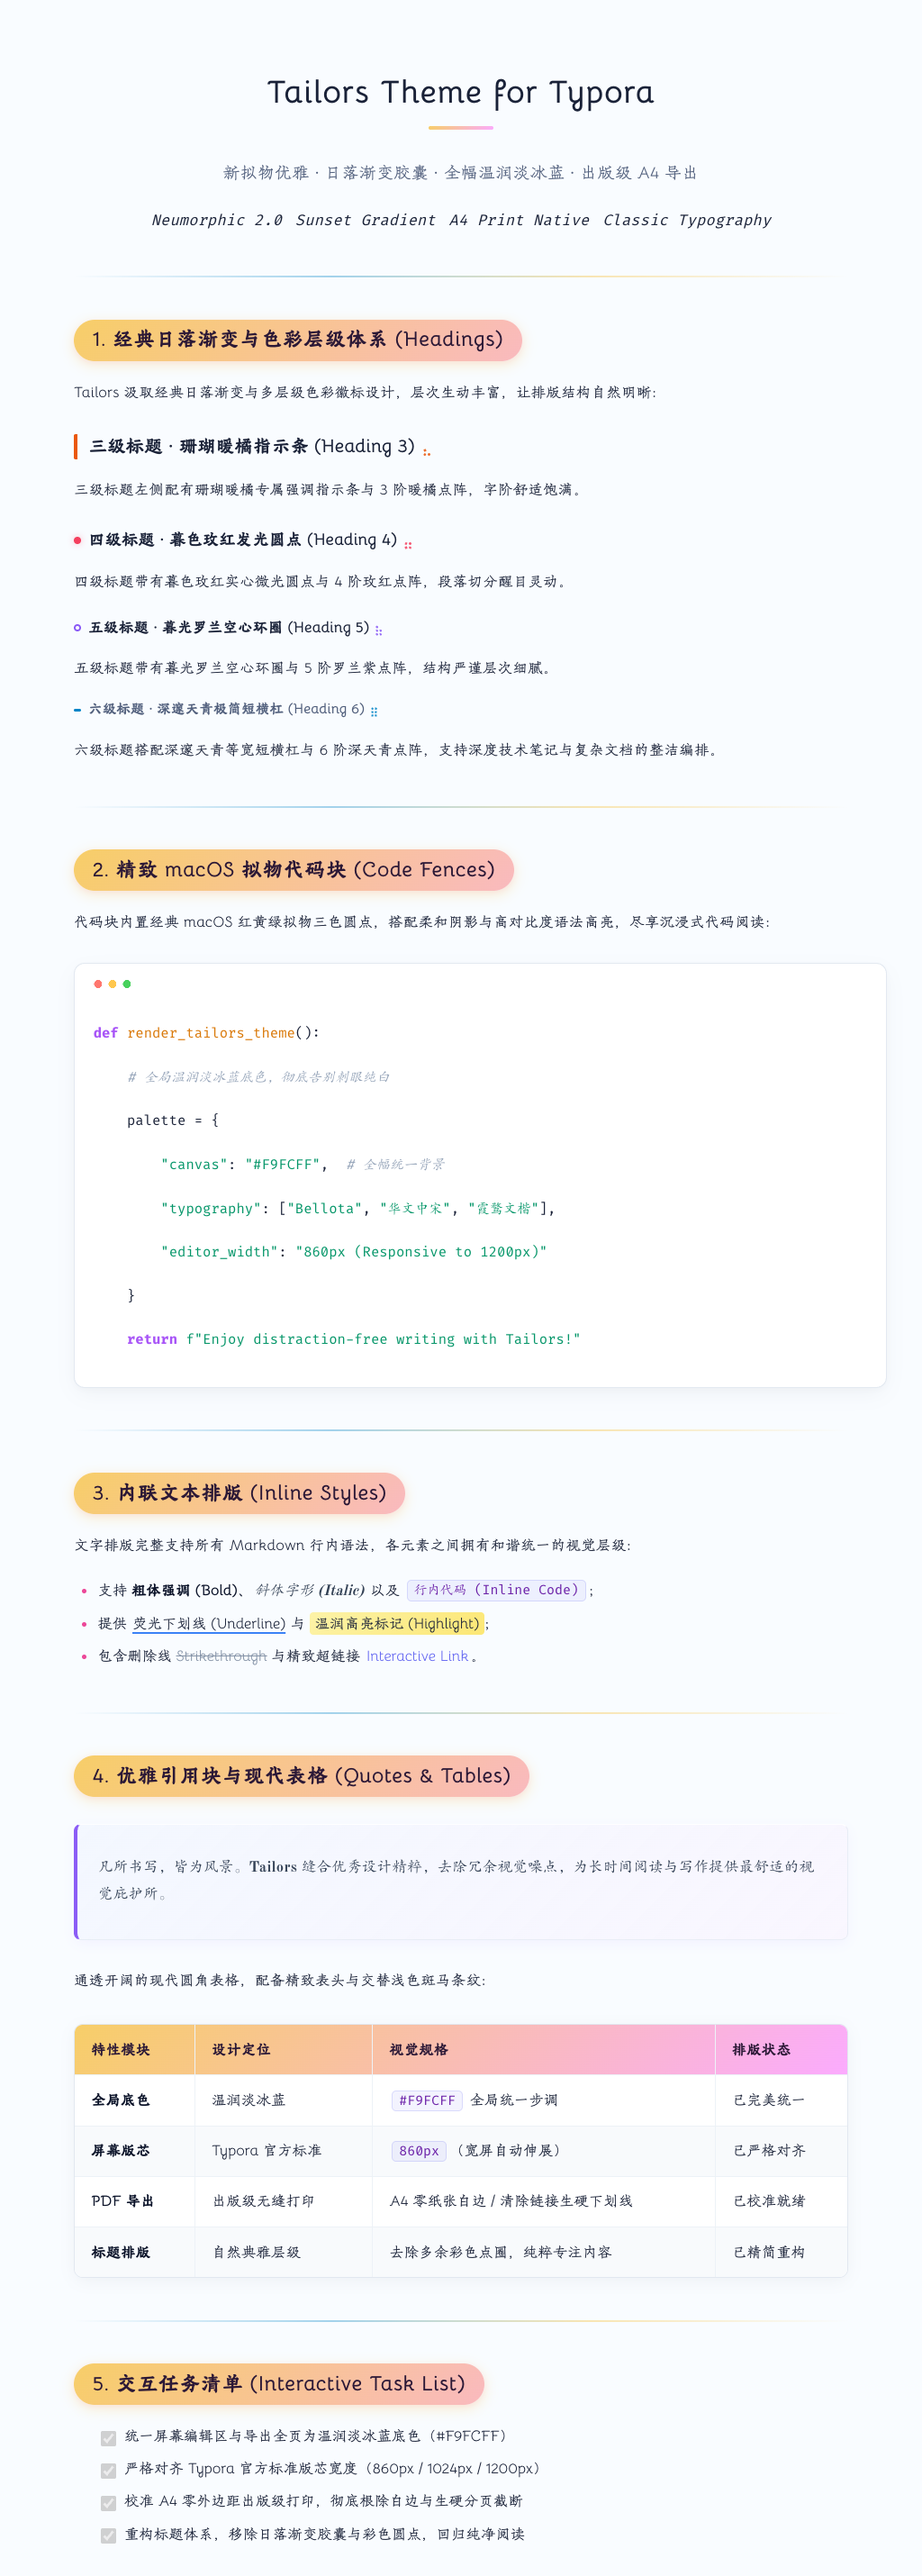
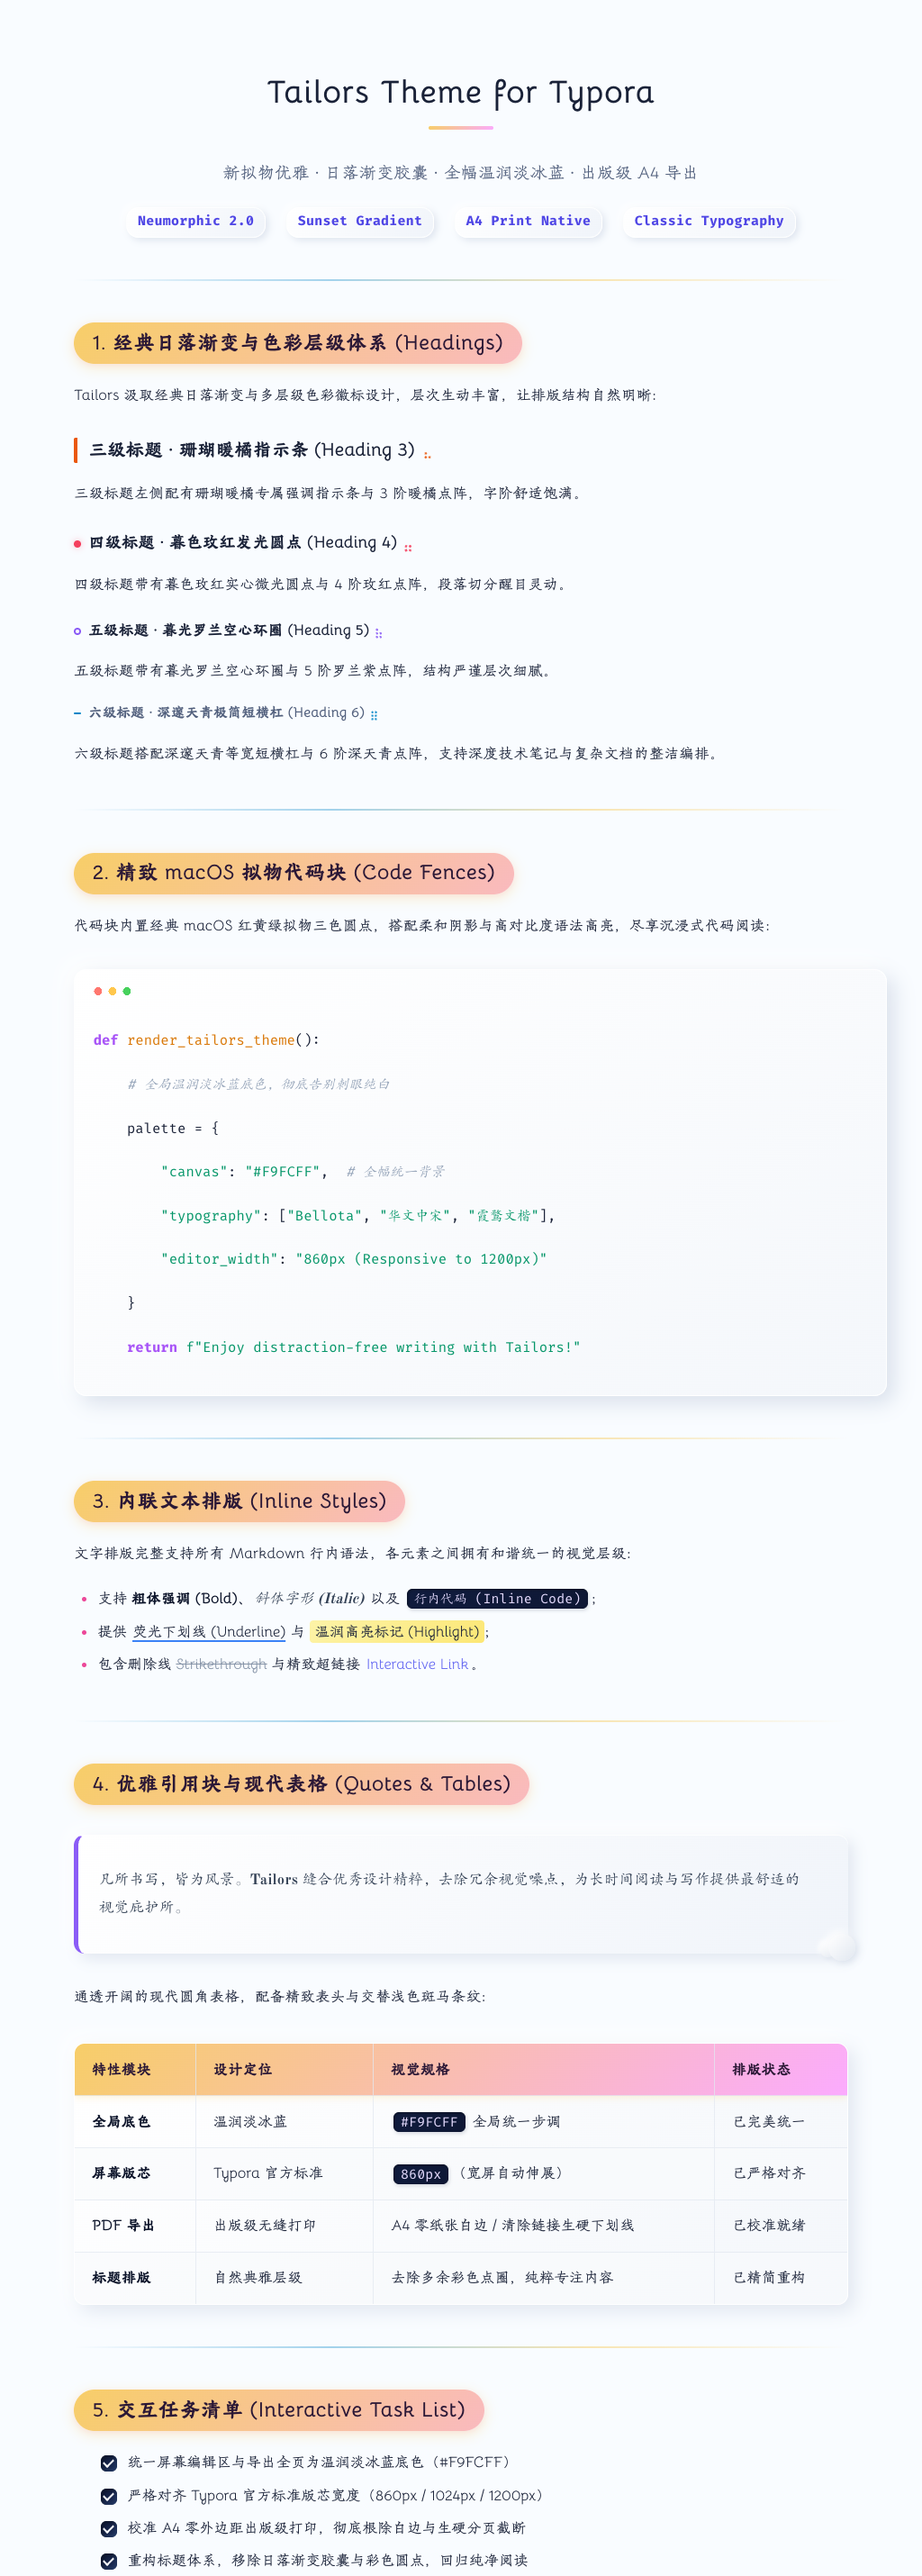
style: enrich tactile Neumorphism 2.0 aesthetics across code, quotes, tables, checkboxes, and var badges

diff --git a/preview.html b/preview.html
@@ -23,10 +23,12 @@
   --bg-color: #F9FCFF;
   --write-bg: var(--bg-color); /* 统一全局背景色，去除白卡片突兀感 */
   
-  /* 柔和新拟物化投影 */
-  --neumorphic-flat: 12px 12px 32px rgba(166, 180, 204, 0.28), -10px -10px 28px rgba(255, 255, 255, 0.95);
-  --neumorphic-hover: 16px 16px 40px rgba(166, 180, 204, 0.35), -12px -12px 32px rgba(255, 255, 255, 1);
-  --neumorphic-inset: inset 4px 4px 10px rgba(166, 180, 204, 0.25), inset -4px -4px 10px rgba(255, 255, 255, 0.9);
+  /* 柔和新拟物化拟真光影 (Neumorphism 2.0 光影体系) */
+  --neumorphic-flat: 6px 6px 16px rgba(166, 180, 204, 0.3), -6px -6px 16px rgba(255, 255, 255, 0.95);
+  --neumorphic-hover: 8px 8px 22px rgba(166, 180, 204, 0.38), -8px -8px 22px rgba(255, 255, 255, 1);
+  --neumorphic-inset: inset 3px 3px 8px rgba(166, 180, 204, 0.28), inset -3px -3px 8px rgba(255, 255, 255, 0.95);
+  --neumorphic-pill: 3px 3px 8px rgba(166, 180, 204, 0.32), -3px -3px 8px rgba(255, 255, 255, 0.95);
+  --neumorphic-pill-inset: inset 2px 2px 5px rgba(166, 180, 204, 0.32), inset -2px -2px 5px rgba(255, 255, 255, 0.95);
   --card-shadow: 0 10px 30px -5px rgba(26, 34, 56, 0.07), 0 4px 12px -2px rgba(26, 34, 56, 0.04);
   
   /* 交互与高亮 */
@@ -534,33 +536,38 @@ a.md-header-anchor,
    行内代码与代码块 (Code)
    ========================================================================== */
 
-/* 行内代码：轻盈圆角胶囊 */
+/* 行内代码：Neumorphism 暗夜凹槽微拟物胶囊 (Typora-Theme-Neumorphism 标志性质感) */
 #write code {
   font-family: var(--monospace);
   font-size: 0.88em;
-  padding: 0.15em 0.48em;
+  padding: 0.18em 0.55em;
   margin: 0 3px;
-  border-radius: 5px;
-  background: rgba(99, 102, 241, 0.08);
-  color: #6b21a8;
-  border: 1px solid rgba(99, 102, 241, 0.18);
+  border-radius: 6px;
+  background: linear-gradient(135deg, #101c3e 0%, #0e1734 100%);
+  color: #e6dcff;
+  box-shadow: inset 1px 1px 3px rgba(0, 0, 0, 0.45), 1px 2px 4px rgba(16, 28, 62, 0.15);
   word-break: break-all;
-  box-shadow: none;
+  letter-spacing: 0.01em;
 }
 
-/* 围栏代码块容器 */
+/* 围栏代码块容器：新拟物凸起浮雕画板 (立体柔光阴影) */
 body #write .md-fences {
   width: 100%;
-  margin: 1.8rem 0;
-  padding: 1rem 1.25rem 0.9rem;
-  border-radius: 12px;
-  background: #ffffff;
-  border: 1px solid rgba(226, 232, 240, 0.95);
-  box-shadow: 0 8px 24px -4px rgba(26, 34, 56, 0.06), 0 2px 8px -2px rgba(26, 34, 56, 0.03);
+  margin: 2rem 0;
+  padding: 1.1rem 1.25rem 0.95rem;
+  border-radius: 14px;
+  background: linear-gradient(145deg, #ffffff 0%, #f4f7fb 100%);
+  border: 1px solid rgba(255, 255, 255, 0.9);
+  box-shadow: var(--neumorphic-hover);
   font-family: var(--monospace) !important;
   font-size: 0.92rem;
   line-height: 1.6;
   position: relative;
+  transition: all 0.3s cubic-bezier(0.4, 0, 0.2, 1);
+}
+
+body #write .md-fences:hover {
+  box-shadow: 10px 10px 28px rgba(166, 180, 204, 0.35), -10px -10px 28px rgba(255, 255, 255, 1);
 }
 
 /* macOS 风格红黄绿三色控制圆点 */
@@ -659,40 +666,71 @@ pre.md-fences .CodeMirror-gutters {
    引用块 (Blockquote)
    ========================================================================== */
 
-/* 优雅通透卡片 + 渐变边框，去除遮挡正文的巨型圆球 */
+/* 引用块：经典 Neumorphism 双阴影浮雕卡片 + 悬停内凹 + 标志性微气泡 */
 body #write blockquote {
-  margin: 1.8rem 0;
-  padding: 0.85rem 1.4rem;
+  margin: 2rem 0;
+  padding: 0.95rem 2.6rem 0.95rem 1.4rem;
   position: relative;
-  border-radius: 8px;
-  background: linear-gradient(135deg, rgba(240, 245, 255, 0.65) 0%, rgba(250, 245, 255, 0.75) 100%);
-  border-left: 4.5px solid #8b5cf6;
-  border-top: 1px solid rgba(255, 255, 255, 0.9);
-  border-right: 1px solid rgba(226, 232, 240, 0.6);
-  border-bottom: 1px solid rgba(226, 232, 240, 0.6);
-  box-shadow: 0 4px 16px -2px rgba(139, 92, 246, 0.08);
+  border-radius: 12px;
+  background: linear-gradient(135deg, #ffffff 0%, #f0f4fa 100%);
+  border-left: 5px solid #8b5cf6;
+  border-top: 1px solid rgba(255, 255, 255, 0.95);
+  box-shadow: 6px 6px 16px rgba(166, 180, 204, 0.3), -6px -6px 16px rgba(255, 255, 255, 0.95);
   font-family: var(--font-serif);
   color: #334155;
-  transition: all 0.3s ease;
+  transition: all 0.35s cubic-bezier(0.4, 0, 0.2, 1);
 }
 
 body #write blockquote:hover {
-  background: linear-gradient(135deg, rgba(235, 242, 255, 0.8) 0%, rgba(248, 240, 255, 0.9) 100%);
-  box-shadow: 0 6px 20px -2px rgba(139, 92, 246, 0.14);
+  background: linear-gradient(135deg, #f5f8fc 0%, #edf2f9 100%);
+  box-shadow: inset 3px 3px 8px rgba(166, 180, 204, 0.28), inset -3px -3px 8px rgba(255, 255, 255, 0.95);
 }
 
-/* 消除原版遮盖正文的巨大圆球伪元素 */
+/* Neumorphism 标志性双圆环装饰气泡 (精巧优雅尺寸，杜绝遮盖正文) */
 body #write blockquote::after,
 body #write blockquote::before {
-  display: none !important;
+  content: "";
+  position: absolute;
+  border-radius: 50%;
+  pointer-events: none;
+  transition: all 0.4s ease;
+}
+
+body #write blockquote::after {
+  width: 1.8rem;
+  height: 1.8rem;
+  right: -8px;
+  bottom: -8px;
+  background: linear-gradient(135deg, #ffffff 0%, #e2e8f0 100%);
+  box-shadow: 3px 3px 8px rgba(166, 180, 204, 0.3), -3px -3px 8px rgba(255, 255, 255, 0.95);
+}
+
+body #write blockquote::before {
+  width: 1rem;
+  height: 1rem;
+  right: 15px;
+  bottom: -4px;
+  background: linear-gradient(135deg, #ffffff 0%, #e2e8f0 100%);
+  box-shadow: 2px 2px 5px rgba(166, 180, 204, 0.25), -2px -2px 5px rgba(255, 255, 255, 0.95);
+}
+
+body #write blockquote:hover::after,
+body #write blockquote:hover::before {
+  background: var(--primary-gradient);
+  box-shadow: 0 4px 12px rgba(247, 206, 104, 0.35);
 }
 
 /* 嵌套引用 */
 body #write blockquote blockquote {
   margin: 0.75rem 0;
   border-left: 3.5px solid #f59e0b;
-  background: rgba(255, 251, 235, 0.65);
-  box-shadow: none;
+  background: rgba(255, 251, 235, 0.7);
+  box-shadow: inset 2px 2px 5px rgba(245, 158, 11, 0.15);
+}
+
+body #write blockquote blockquote::before,
+body #write blockquote blockquote::after {
+  display: none !important;
 }
 
 /* ==========================================================================
@@ -700,32 +738,38 @@ body #write blockquote blockquote {
    ========================================================================== */
 
 body #write .md-table-fig {
-  margin: 2rem 0;
+  margin: 2.2rem 0;
 }
 
 body #write table {
   width: 100%;
   border-collapse: separate;
   border-spacing: 0;
-  border-radius: 10px;
+  border-radius: 12px;
   overflow: hidden;
-  background: #ffffff;
-  border: 1px solid #e2e8f0;
-  box-shadow: 0 4px 18px -2px rgba(26, 34, 56, 0.06);
+  background: linear-gradient(135deg, #ffffff 0%, #f4f7fb 100%);
+  border: 1px solid rgba(255, 255, 255, 0.9);
+  box-shadow: 7px 7px 20px rgba(166, 180, 204, 0.3), -7px -7px 20px rgba(255, 255, 255, 0.95);
+  transition: all 0.3s ease;
+}
+
+body #write table:hover {
+  box-shadow: 9px 9px 26px rgba(166, 180, 204, 0.36), -9px -9px 26px rgba(255, 255, 255, 1);
 }
 
 body #write table thead {
   background: var(--primary-gradient);
   color: #2b1836;
   font-weight: 700;
+  box-shadow: 0 2px 8px rgba(247, 206, 104, 0.25);
 }
 
 body #write table th,
 body #write table td {
-  padding: 0.75rem 1.1rem;
+  padding: 0.8rem 1.15rem;
   text-align: left;
-  border-bottom: 1px solid #edf2f7;
-  border-right: 1px solid #edf2f7;
+  border-bottom: 1px solid rgba(226, 232, 240, 0.75);
+  border-right: 1px solid rgba(226, 232, 240, 0.75);
 }
 
 body #write table th:last-child,
@@ -739,34 +783,64 @@ body #write table tr:last-child td {
 
 /* 斑马纹 */
 body #write table tbody tr:nth-child(even) {
-  background-color: #f8fafc;
+  background-color: rgba(248, 250, 252, 0.6);
 }
 
-/* 悬停平滑高亮，彻底去除原版导致跳动的 5px 下划线 */
+/* 悬停行微拟物高亮 */
 body #write table tbody tr:hover {
   background-color: #f1f5f9;
-  box-shadow: none;
-  transition: background-color 0.2s ease;
+  box-shadow: inset 0 1px 0 rgba(255, 255, 255, 0.8), 0 2px 4px rgba(166, 180, 204, 0.15);
+  transition: all 0.2s ease;
 }
 
 /* ==========================================================================
    任务列表 (Task Lists)
    ========================================================================== */
 
+/* 任务列表：Neumorphism 凸起浮雕按钮与凹陷完成态 */
 body #write .task-list-item {
-  padding-left: 1.8rem;
+  padding-left: 2rem;
   position: relative;
   list-style-type: none;
 }
 
 body #write .task-list-item input[type="checkbox"] {
+  -webkit-appearance: none;
+  -moz-appearance: none;
+  appearance: none;
   position: absolute;
   left: 0;
-  top: 0.35rem;
-  width: 17px;
-  height: 17px;
+  top: 0.25rem;
+  width: 18px;
+  height: 18px;
+  border-radius: 6px;
+  background: linear-gradient(145deg, #ffffff 0%, #e8edf5 100%);
+  box-shadow: 2.5px 2.5px 6px rgba(166, 180, 204, 0.38), -2.5px -2.5px 6px rgba(255, 255, 255, 1);
+  border: 1px solid rgba(255, 255, 255, 0.9);
   cursor: pointer;
-  accent-color: #6366f1;
+  transition: all 0.25s cubic-bezier(0.4, 0, 0.2, 1);
+  vertical-align: middle;
+}
+
+body #write .task-list-item input[type="checkbox"]:hover {
+  box-shadow: inset 1.5px 1.5px 3.5px rgba(166, 180, 204, 0.35), inset -1.5px -1.5px 3.5px rgba(255, 255, 255, 1);
+}
+
+body #write .task-list-item input[type="checkbox"]:checked {
+  background: linear-gradient(135deg, #101c3e 0%, #1a2951 100%);
+  box-shadow: inset 2px 2px 5px rgba(0, 0, 0, 0.45), inset -2px -2px 5px rgba(75, 120, 180, 0.25);
+  border: none;
+}
+
+body #write .task-list-item input[type="checkbox"]:checked::after {
+  content: "";
+  display: block;
+  width: 5px;
+  height: 9px;
+  border: solid #f8fafc;
+  border-width: 0 2px 2px 0;
+  transform: rotate(45deg);
+  margin: 2px 0 0 5px;
 }
 
 body #write .task-list-item input + p {
@@ -775,13 +849,11 @@ body #write .task-list-item input + p {
   padding: 0;
 }
 
-/* 消除原版多余且错位的紫色小圆点 */
 body #write .task-list-item p::before,
 body #write .task-list-item p::after {
   display: none !important;
 }
 
-/* 任务已完成态 */
 body #write .task-list-done {
   opacity: 0.55;
   text-decoration: line-through;
@@ -952,14 +1024,16 @@ sup.md-footnote {
 
 #typora-sidebar .file-list-item.active {
   border-radius: 8px;
-  background: var(--active-file-bg-color);
-  color: var(--active-file-text-color);
+  background: linear-gradient(145deg, #ffffff 0%, #edf3fa 100%);
+  box-shadow: inset 2.5px 2.5px 6px rgba(166, 180, 204, 0.28), inset -2.5px -2.5px 6px rgba(255, 255, 255, 0.95);
+  color: #1a2238;
   font-weight: 600;
 }
 
 #typora-sidebar .file-tree-node.active > .file-node-content {
   color: #1a2238;
-  background: var(--active-file-bg-color);
+  background: linear-gradient(145deg, #ffffff 0%, #edf3fa 100%);
+  box-shadow: inset 2px 2px 5px rgba(166, 180, 204, 0.25), inset -2px -2px 5px rgba(255, 255, 255, 0.95);
   border-radius: 8px;
   font-weight: 600;
 }
@@ -1008,11 +1082,42 @@ sup.md-footnote {
   color: rgba(26, 34, 56, 0.22) !important;
 }
 
-/* 变量与强调 */
+/* 变量与微拟物胶囊 (<var>) - Typora-Theme-Neumorphism 标志性微拟物组件 */
 var {
   font-family: var(--monospace);
-  font-style: italic;
-  color: var(--text-color);
+  font-style: normal;
+  display: inline-block;
+  padding: 2.5px 12px;
+  margin: 0 4px;
+  border-radius: 14px;
+  background: linear-gradient(135deg, #ffffff 0%, #f0f4fa 100%);
+  box-shadow: 3px 3px 8px rgba(166, 180, 204, 0.32), -3px -3px 8px rgba(255, 255, 255, 0.95);
+  color: #4f46e5;
+  font-weight: 600;
+  font-size: 0.88em;
+  letter-spacing: 0.02em;
+  transition: all 0.25s ease;
+  vertical-align: baseline;
+  border: 1px solid rgba(255, 255, 255, 0.85);
+}
+
+var:hover {
+  background: linear-gradient(135deg, #f0f4fa 0%, #e6ecf5 100%);
+  box-shadow: inset 2px 2px 5px rgba(166, 180, 204, 0.32), inset -2px -2px 5px rgba(255, 255, 255, 0.95);
+  color: #7c3aed;
+}
+
+/* 插图与多媒体 (新拟物柔和卡片浮雕) */
+body #write img,
+body #write .md-image img {
+  border-radius: 10px;
+  box-shadow: 6px 6px 18px rgba(166, 180, 204, 0.28), -6px -6px 18px rgba(255, 255, 255, 0.95);
+  transition: all 0.3s ease;
+}
+
+body #write img:hover,
+body #write .md-image img:hover {
+  box-shadow: 8px 8px 24px rgba(166, 180, 204, 0.36), -8px -8px 24px rgba(255, 255, 255, 1);
 }
 
 /* ==========================================================================
@@ -1352,6 +1457,33 @@ body.typora-export #write hr,
     margin: 0.8rem 0 !important;
     -webkit-print-color-adjust: exact;
     print-color-adjust: exact;
+  }
+
+  body #write blockquote::after,
+  body #write blockquote::before {
+    display: none !important;
+  }
+
+  /* 变量与行内代码打印态：干净边框与中性色，去除暗色凹槽与立体投影 */
+  #write var {
+    font-family: var(--monospace) !important;
+    font-style: normal !important;
+    background: #f1f5f9 !important;
+    color: #334155 !important;
+    border: 1px solid #cbd5e1 !important;
+    box-shadow: none !important;
+    padding: 1px 6px !important;
+    border-radius: 4px !important;
+  }
+
+  body #write code {
+    font-family: var(--monospace) !important;
+    background: #f1f5f9 !important;
+    color: #0f172a !important;
+    border: 1px solid #cbd5e1 !important;
+    box-shadow: none !important;
+    padding: 1px 4px !important;
+    border-radius: 3px !important;
   }
 
   /* 表格导出风格：五号字 (10.5pt) 紧凑清晰 */
